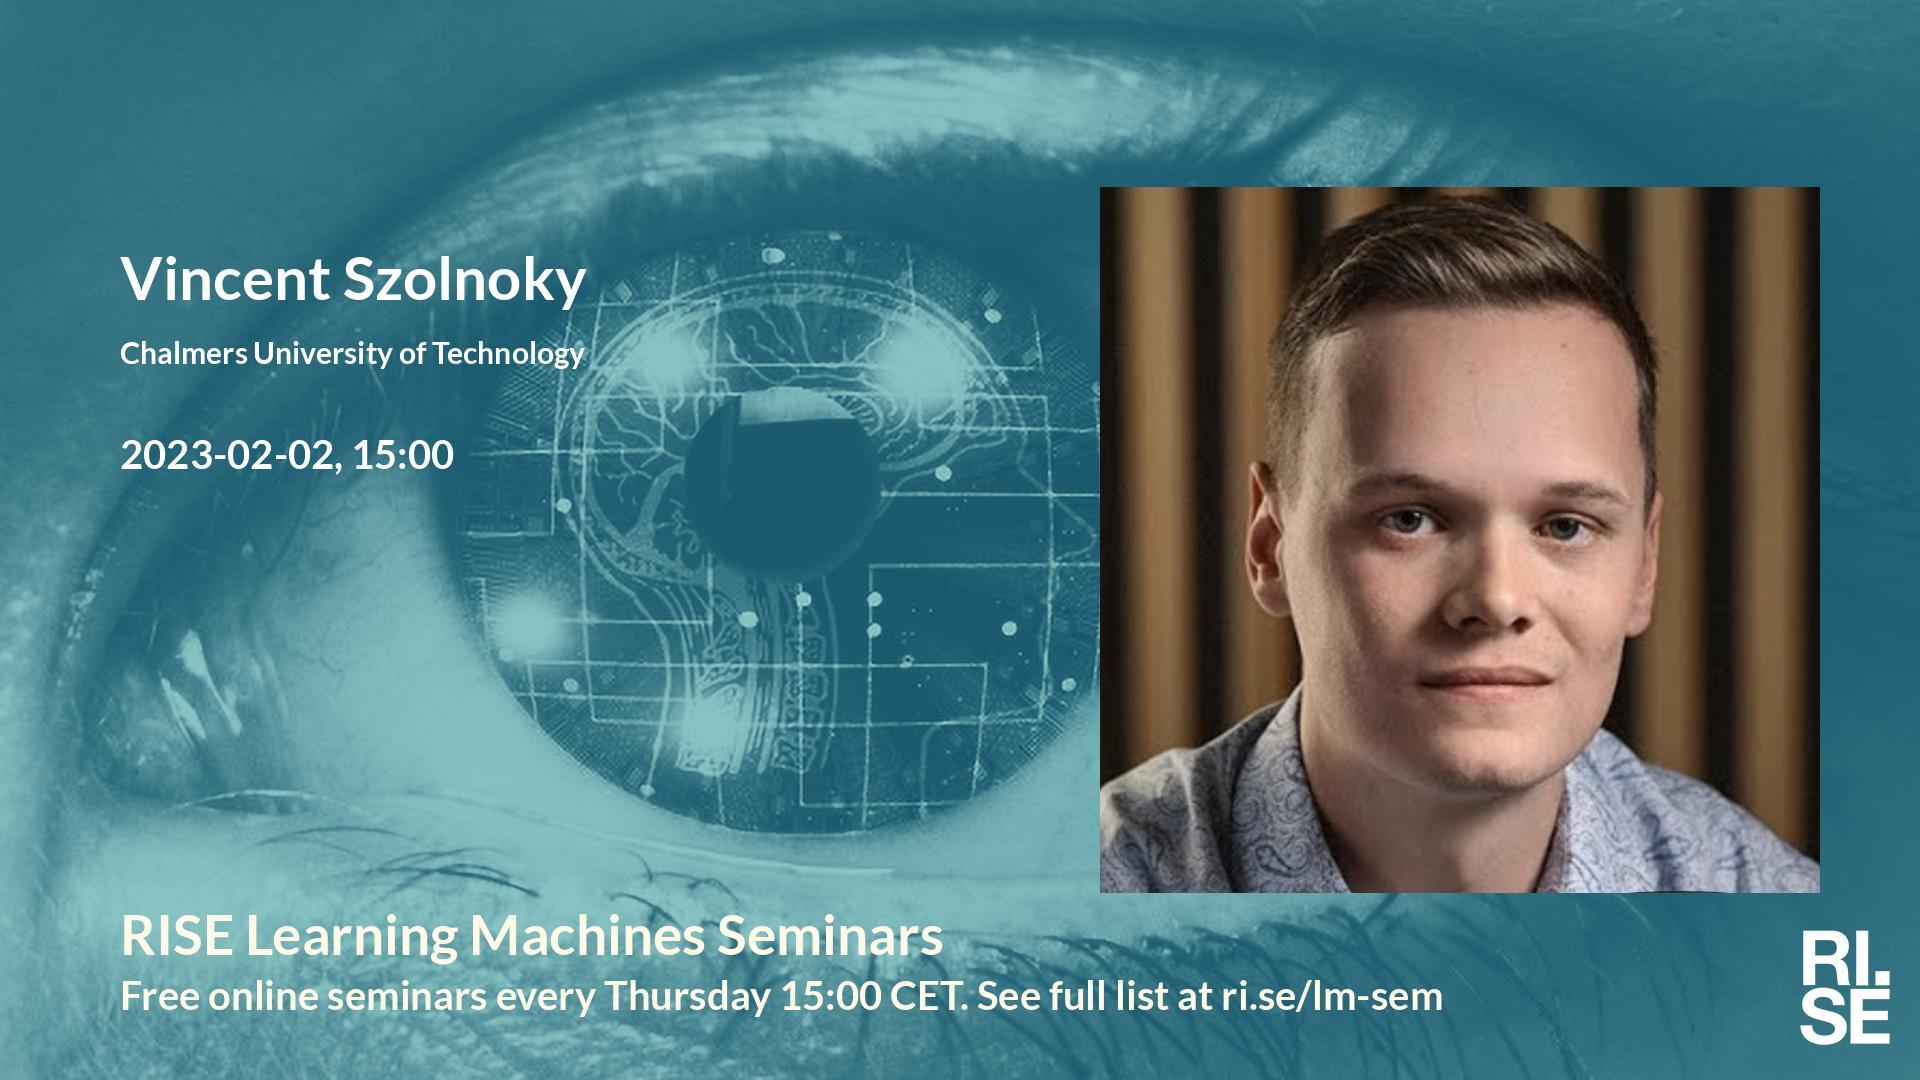
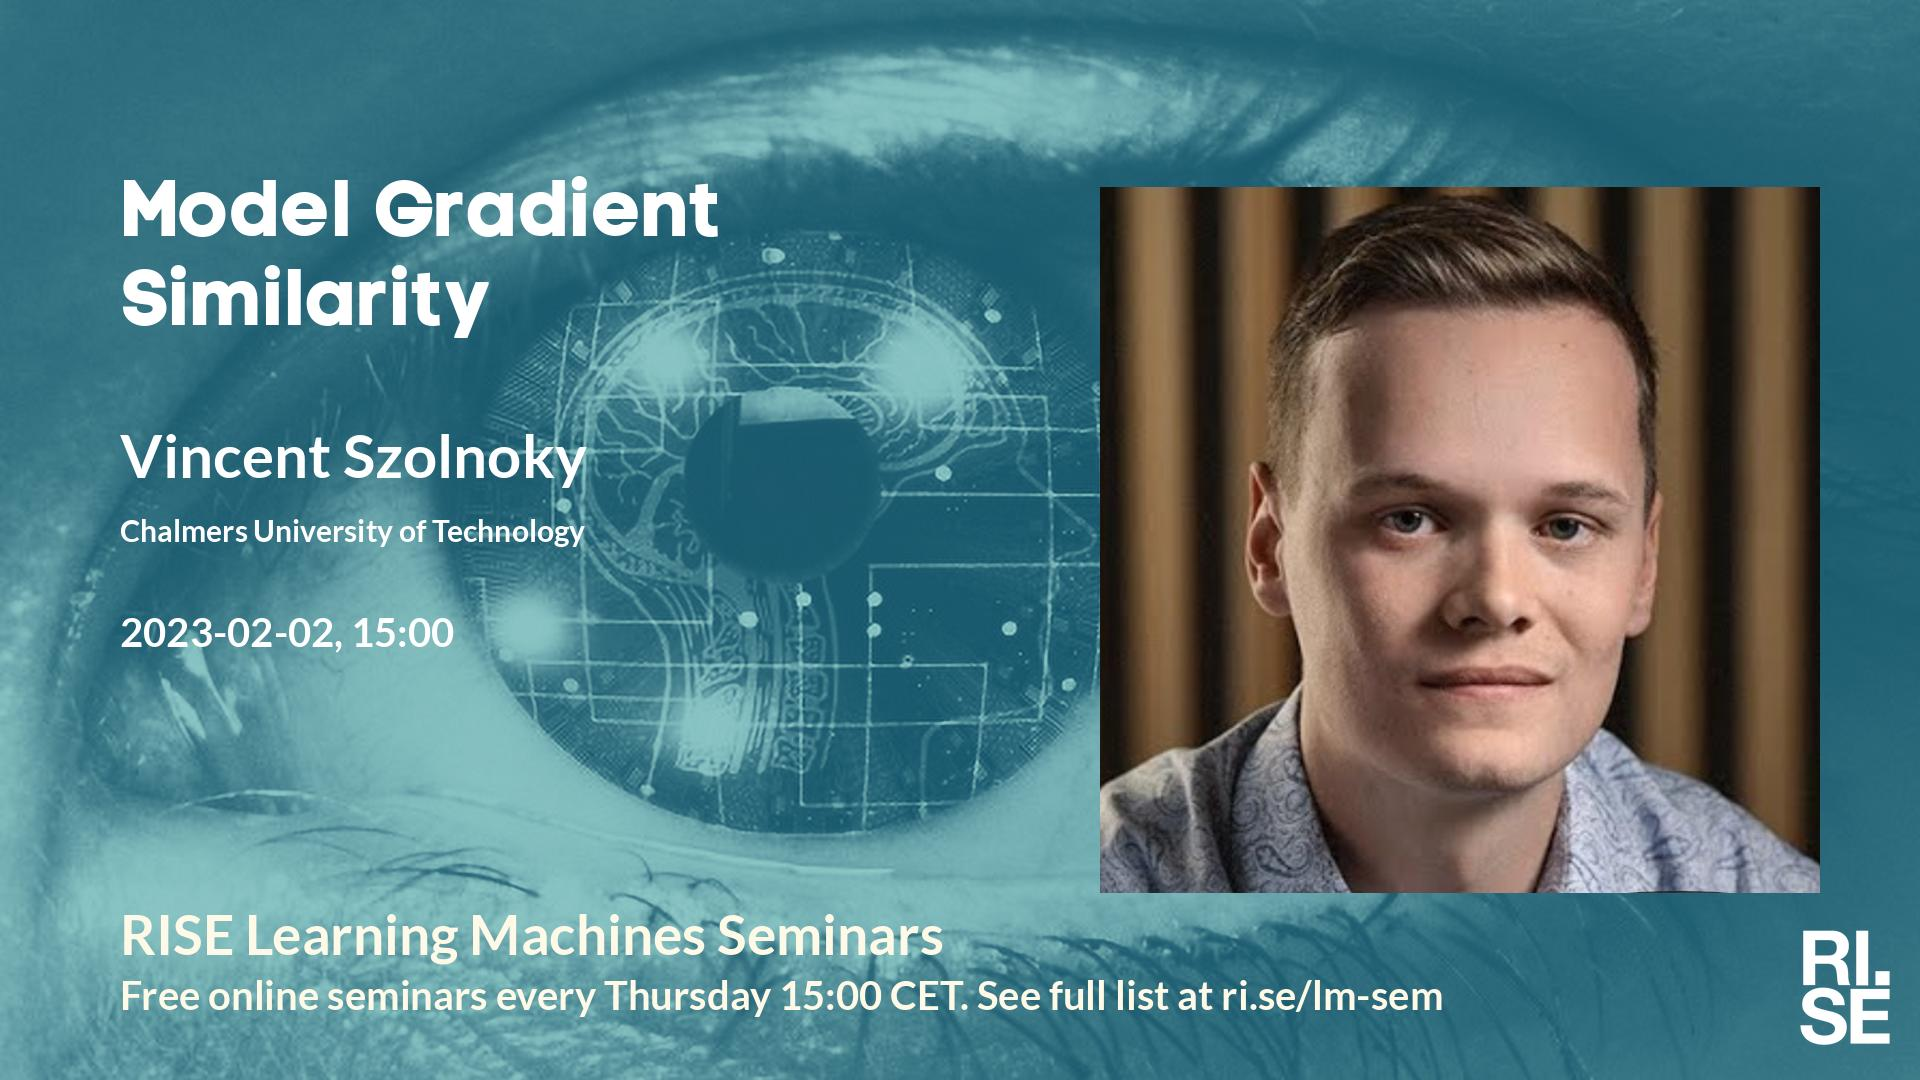
Updated plan on web site.

Changed region(s): [[0.0625, 0.1528, 0.375, 0.3361], [0.0625, 0.3972, 0.3125, 0.5194], [0.0625, 0.55, 0.25, 0.6111]]

diff --git a/lm/index.md b/lm/index.md
@@ -1,19 +1,17 @@
 <style type="text/css" scoped>
 td, th {border: 1px solid #ccc; padding: 0.6em;}
 table {border-collapse: collapse;}
-</style># Learning Machines Plan 2022-12-22
+</style># Learning Machines Plan 2023-01-09
 
 | date | speaker                                   | photo | shareable | meeting backdrop | youtube thumbnail | <a title="Speaker, Title, Abstract, Bio, Photo. Strikethrough means we don't have it yet.">comment</a>        |
 | ---- | ----------------------------------------- | ----- | ----- | ----- | ----- | -------------- |
-|  2022-12-08  |  [William Lidberg, Swedish University of Agricultural Sciences](2022-12-08.md)  |  [photo](photo-william-lidberg.jpg)  |  [social media ](social-media-william-lidberg.jpg)  |  [meeting backdrop ](meeting-backdrop-william-lidberg.jpg)  |  [youtube thumbnail ](youtube-thumbnail-william-lidberg.jpg)  |  STABP  |
-| <span style="color:red"> 2022-12-15 </span> | <span style="color:red"> Christmas </span> | <span style="color:red">  </span> | <span style="color:red">  </span> | <span style="color:red">  </span> | <span style="color:red">  </span> | <span style="color:red"> CANCELLED </span> |
 | <span style="color:red"> 2022-12-22 </span> | <span style="color:red"> Christmas </span> | <span style="color:red">  </span> | <span style="color:red">  </span> | <span style="color:red">  </span> | <span style="color:red">  </span> | <span style="color:red"> CANCELLED </span> |
 | <span style="color:red"> 2022-12-29 </span> | <span style="color:red"> Christmas </span> | <span style="color:red">  </span> | <span style="color:red">  </span> | <span style="color:red">  </span> | <span style="color:red">  </span> | <span style="color:red"> CANCELLED </span> |
 | <span style="color:red"> 2023-01-05 </span> | <span style="color:red"> Christmas </span> | <span style="color:red">  </span> | <span style="color:red">  </span> | <span style="color:red">  </span> | <span style="color:red">  </span> | <span style="color:red"> CANCELLED </span> |
 |  2023-01-12  |  [Mark D. Plumbley, University of Surrey](2023-01-12.md)  |  [photo](photo-mark-d.-plumbley.jpg)  |  [social media ](social-media-mark-d.-plumbley.jpg)  |  [meeting backdrop ](meeting-backdrop-mark-d.-plumbley.jpg)  |  [youtube thumbnail ](youtube-thumbnail-mark-d.-plumbley.jpg)  |  STABP  |
 |  2023-01-19  |  [Giulia Fanti, Carnegie Mellon University](2023-01-19.md)  |  [photo](photo-giulia-fanti.jpg)  |  [social media ](social-media-giulia-fanti.jpg)  |  [meeting backdrop ](meeting-backdrop-giulia-fanti.jpg)  |  [youtube thumbnail ](youtube-thumbnail-giulia-fanti.jpg)  |  STABP  |
 |  2023-01-26  |  [Lena Voita, FAIR](2023-01-26.md)  |  [photo](photo-lena-voita.jpg)  |  [social media ](social-media-lena-voita.jpg)  |  [meeting backdrop ](meeting-backdrop-lena-voita.jpg)  |  [youtube thumbnail ](youtube-thumbnail-lena-voita.jpg)  |  STABP  |
-|  2023-02-02  |  [Vincent Szolnoky, Chalmers University of Technology](2023-02-02.md)  |  [photo](photo-vincent-szolnoky.png)  |  [social media ](social-media-vincent-szolnoky.jpg)  |  [meeting backdrop ](meeting-backdrop-vincent-szolnoky.jpg)  |  [youtube thumbnail ](youtube-thumbnail-vincent-szolnoky.jpg)  |  S~~TAB~~P  |
+|  2023-02-02  |  [Vincent Szolnoky, Chalmers University of Technology](2023-02-02.md)  |  [photo](photo-vincent-szolnoky.png)  |  [social media ](social-media-vincent-szolnoky.jpg)  |  [meeting backdrop ](meeting-backdrop-vincent-szolnoky.jpg)  |  [youtube thumbnail ](youtube-thumbnail-vincent-szolnoky.jpg)  |  STABP  |
 | <span style="color:grey"> 2023-02-09 </span> | <span style="color:grey"> Timnit G. ? </span> | <span style="color:grey">  </span> | <span style="color:grey">  </span> | <span style="color:grey">  </span> | <span style="color:grey">  </span> | <span style="color:grey"> ?~~TABP~~ </span> |
 | <span style="color:red"> 2023-02-16 </span> | <span style="color:red"> Sportlov-GBG </span> | <span style="color:red">  </span> | <span style="color:red">  </span> | <span style="color:red">  </span> | <span style="color:red">  </span> | <span style="color:red"> CANCELLED </span> |
 |  2023-02-23  |  [Alexander Ilin, Aalto University](2023-02-23.md)  |  [photo](photo-alexander-ilin.jpg)  |  [social media ](social-media-alexander-ilin.jpg)  |  [meeting backdrop ](meeting-backdrop-alexander-ilin.jpg)  |  [youtube thumbnail ](youtube-thumbnail-alexander-ilin.jpg)  |  S~~TAB~~P  |

diff --git a/lm/2023-02-02.md b/lm/2023-02-02.md
@@ -1,12 +1,12 @@
 Welcome to this week's Learning Machines seminar.
 
-**Title:** 
+**Title:** On the Interpretability of Regularisation for Neural Networks Through Model Gradient Similarity
 
 **Speaker:** Vincent Szolnoky, Chalmers University of Technology
 
-**Abstract:** 
+**Abstract:** Most complex machine learning and modelling techniques are prone to over-ﬁtting and may subsequently generalise poorly to future data. Artiﬁcial neural networks are no different in this regard and, despite having a level of implicit regularisation when trained with gradient descent, often require the aid of explicit regularisers. In this talk, a new framework named Model Gradient Similarity (MGS) shall be introduced, that (1) serves as a metric of regularisation, which can be used to monitor neural network training, (2) adds insight into how explicit regularisers, while derived from widely different principles, operate via the same mechanism underneath by increasing MGS, and (3) provides the basis for a new regularisation scheme which exhibits excellent performance, especially in challenging settings such as high levels of label noise or limited sample sizes.
 
-**About the speaker:** 
+**About the speaker:** Vincent Szolnoky is an industrial PhD student at Chalmers University of Technology and Centiro. His research is centered around training and regularisation of Neural Networks. Most recently, Vincent's paper on Model Gradient Similarity and its connection to regularisation for Neural Networks was accepted to NeurIPS 2022, one of the largest machine learning conferences, where it was well received and garnered much attention.
 
 **Location:** This is an online seminar. Connect using Zoom.
 
@@ -17,7 +17,7 @@ Welcome to this week's Learning Machines seminar.
 * 2023-02-23: Alexander Ilin, Aalto University
 * 2023-03-09: Shay Cohen, University of Edinburgh
 * 2023-03-16: Stefanos Georganos, Karlstad University/KTH/ULB
-* 2023-04-13: Elijah Cole, Caltech
+* 2023-03-30: Puzhao Zhang, KTH
 
 More information and coming seminars: [https://ri.se/lm-sem](https://ri.se/lm-sem)
 
